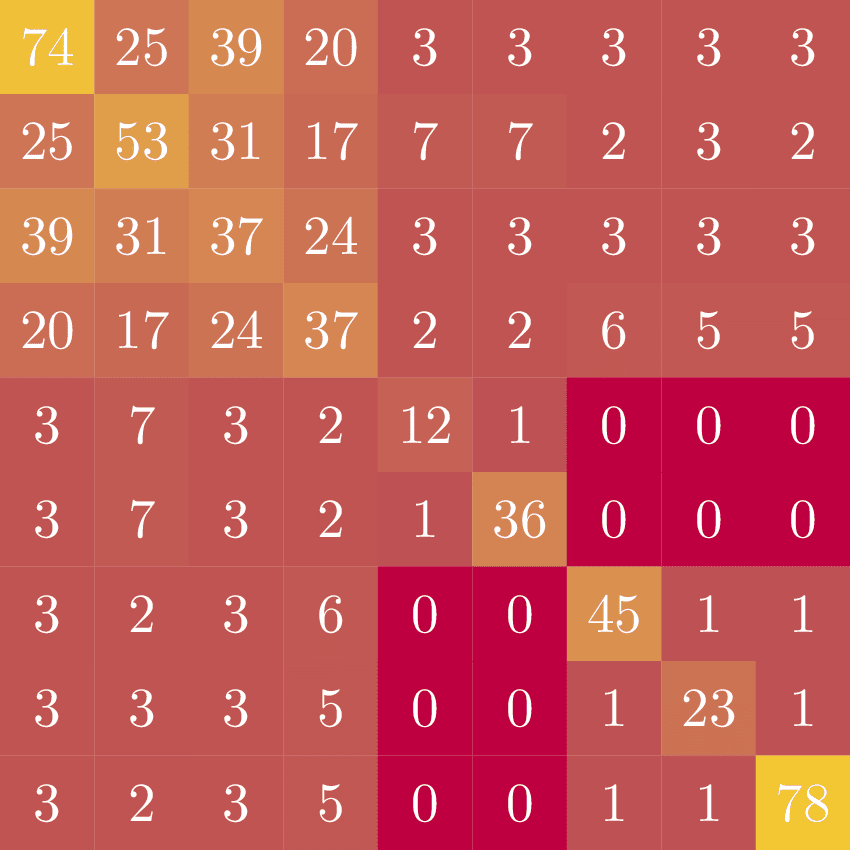
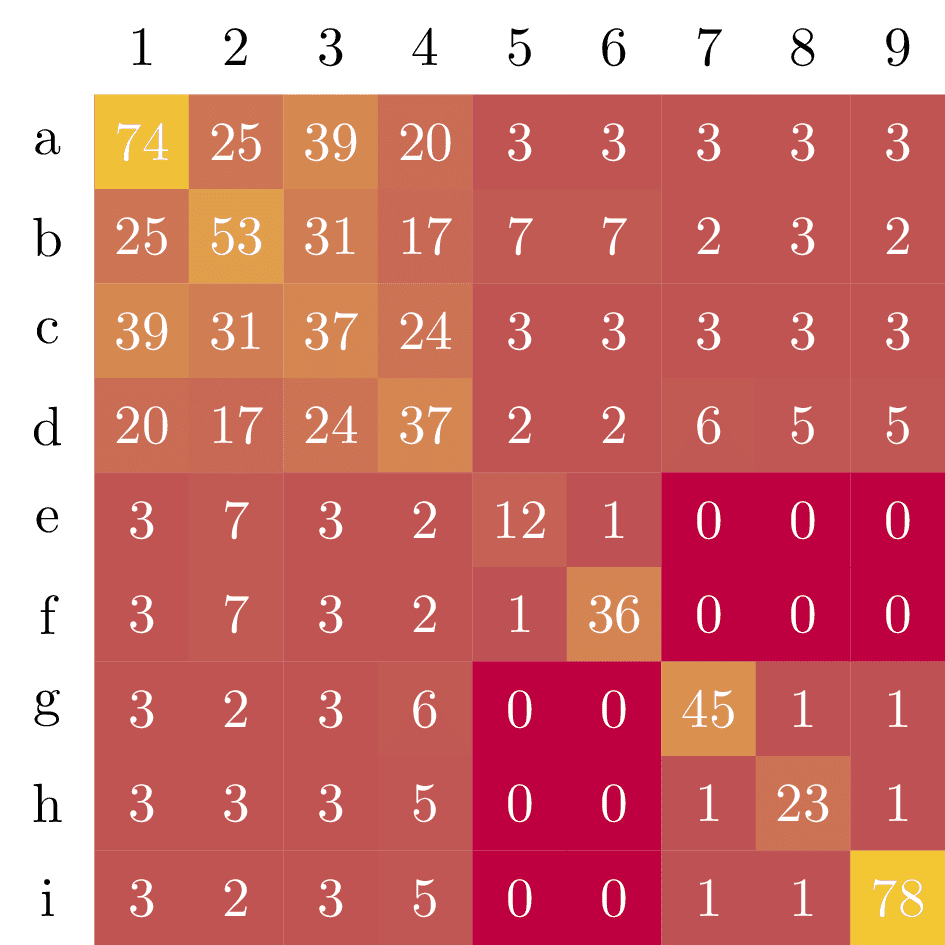
heatmap.tex add row + column labels (#6)
* heatmap.tex add row + column labels

* update assets for assets/heatmap/heatmap.tex

diff --git a/assets/heatmap/heatmap.tex b/assets/heatmap/heatmap.tex
@@ -1,7 +1,8 @@
+% Posted as an answer to https://tex.stackexchange.com/q/44868.
+
 \documentclass[tikz]{standalone}
 
 \begin{document}
-
 \begin{tikzpicture}[scale=0.6]
   \foreach \y [count=\n] in {
       {74,25,39,20,3,3,3,3,3},
@@ -14,9 +15,19 @@
       {3,3,3,5,0,0,1,23,1},
       {3,2,3,5,0,0,1,1,78},
     } {
+      % column labels
+      \ifnum\n<10
+        \node[minimum size=6mm] at (\n, 0) {\n};
+      \fi
+      % heatmap tiles
       \foreach \x [count=\m] in \y {
         \node[fill=yellow!\x!purple, minimum size=6mm, text=white] at (\m,-\n) {\x};
       }
     }
+
+  % row labels
+  \foreach \a [count=\i] in {a,b,c,d,e,f,g,h,i} {
+    \node[minimum size=6mm] at (0,-\i) {\a};
+  }
 \end{tikzpicture}
 \end{document}
